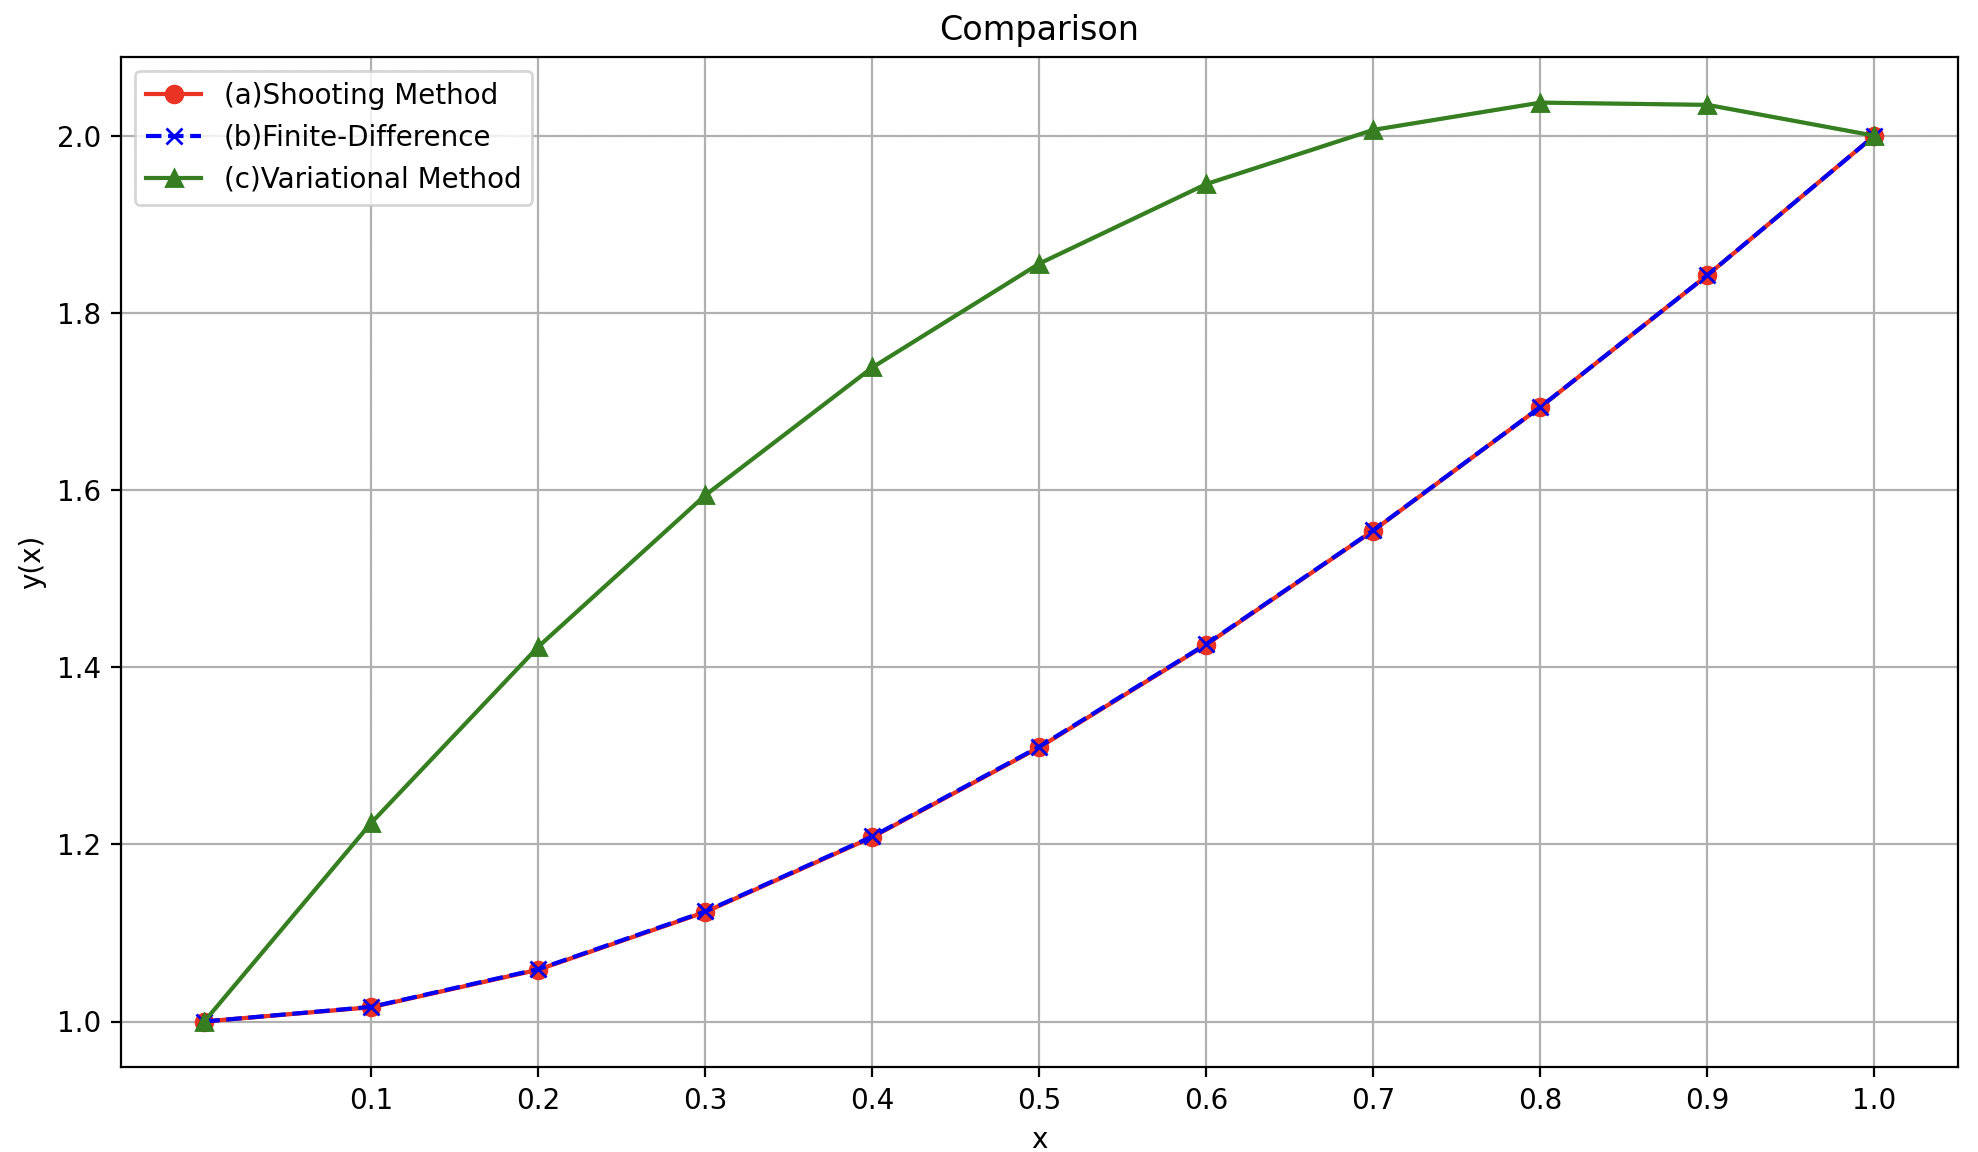
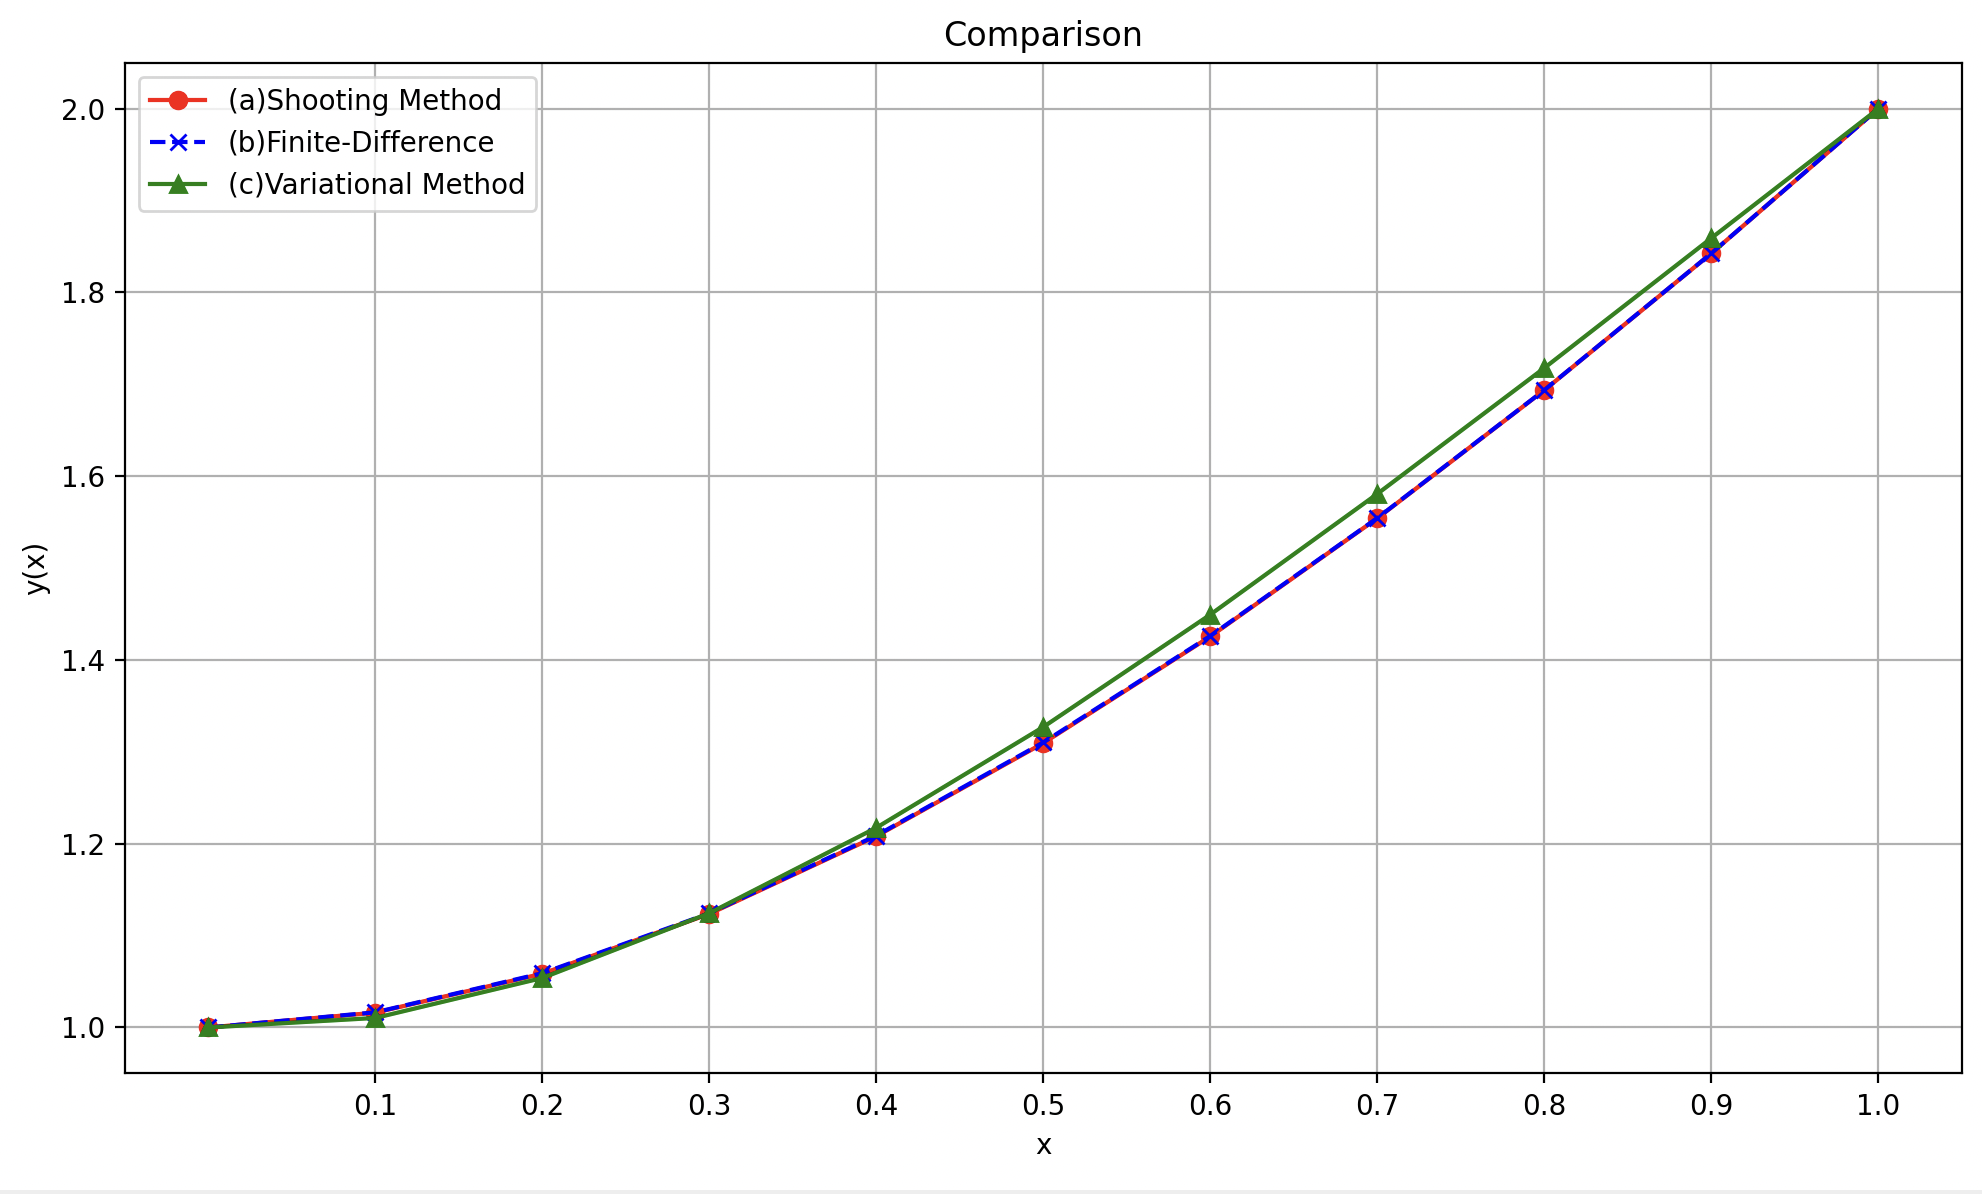
改PQ

diff --git a/hw11.py b/hw11.py
@@ -1,4 +1,5 @@
 import numpy as np
+import math
 from scipy.integrate import solve_ivp, quad
 from scipy.linalg import solve
 import matplotlib.pyplot as plt
@@ -64,6 +65,7 @@ def dphi(i, x):
 
 def y1(x):
     return 1 + x
+
 def r(x):
     return (1 - x**2) * np.exp(-x)
 
@@ -91,7 +93,9 @@ def variational_approach(h=0.1, N=10):
             def integrand_A(x):
                 phi_i, phi_j = phi(i+1, x), phi(j+1, x)
                 dphi_i, dphi_j = dphi(i+1, x), dphi(j+1, x)
-                return dphi_i * dphi_j + 2 * phi_i * phi_j
+                P = -math.exp(x * x / 2 + x)
+                Q = -2 * math.exp(x * x / 2 + x)
+                return P * dphi_i * dphi_j + Q * phi_i * phi_j
             
             A[i][j] = trapezoidal(integrand_A, a, b, n_points - 1)
 
